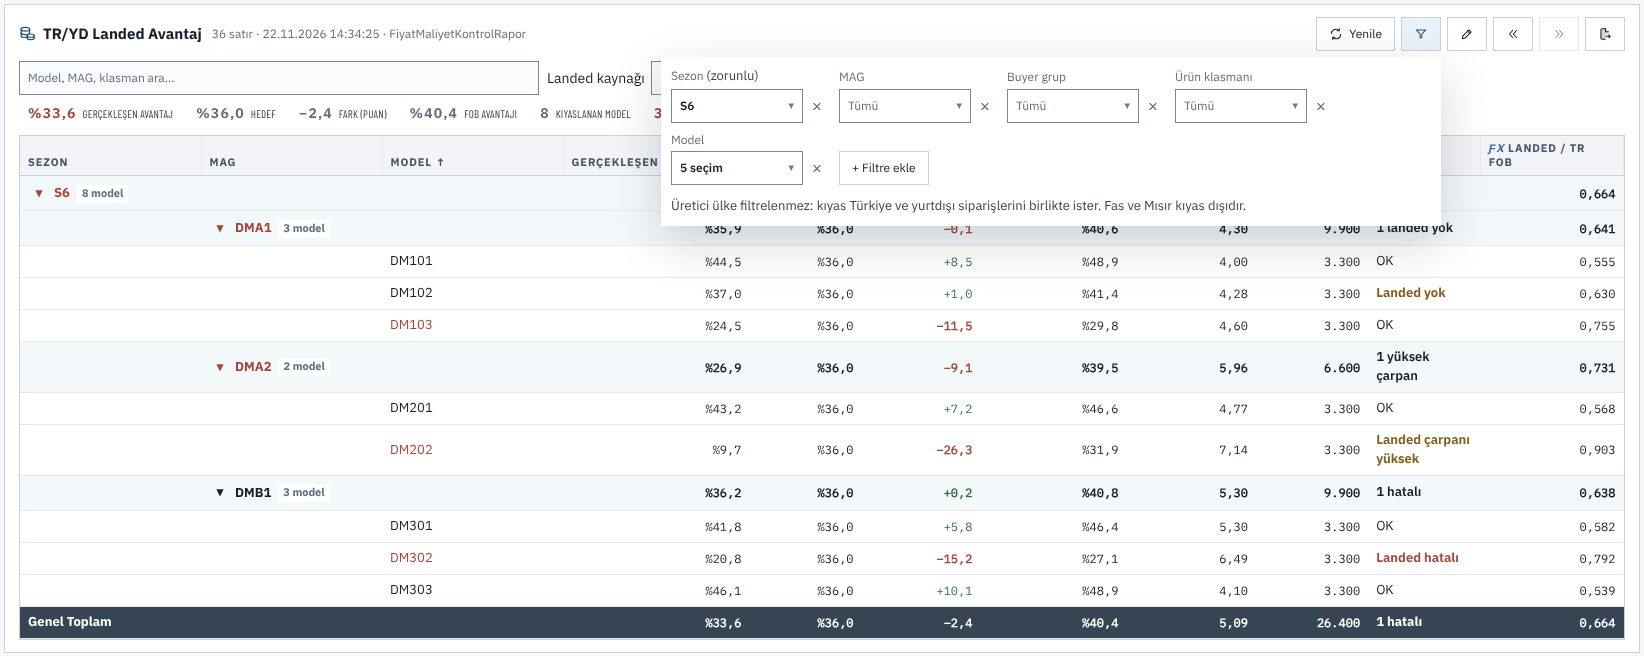
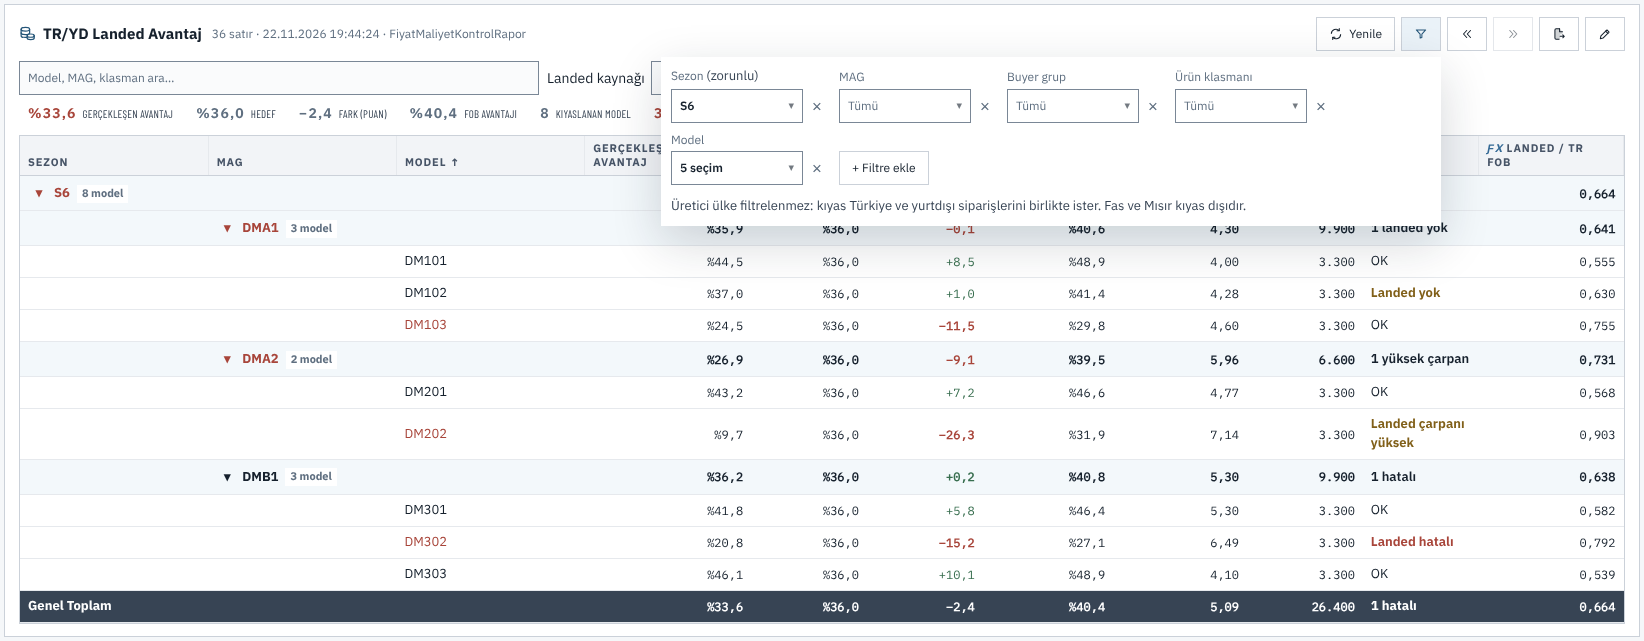
TR/YD: başlık düğmeleri OAB (Küp) ile aynı sırada (#1172)
- Kalem (pivot ayarları) en sona, Excel'in yanına taşındı; kapsayıcı
  oabHeaderActions sınıfını aldı (OAB Küp ile aynı aralık ve gizli grup kuralı).
- Sürüm notu görseli yeni düzenle yeniden çekildi.
- Ekran betiği: Genel Bakış yerleşim yenilemesi kaydırmayı başa aldığı için
  widget kaydırmasız görünsün diye uzun görünüm kullanır (main'de de zaman
  aşımına düşüyordu).

Claude-Session: https://claude.ai/code/session_01HKcjmhXE3GLJzcdJChb8f6

diff --git a/resources/app/public/index.html b/resources/app/public/index.html
@@ -993,13 +993,13 @@
           <p class="cardTitle ovSectionTitle"><svg class="ic" aria-hidden="true"><use href="#i-coins"/></svg><span data-i18n-tr="TR/YD Landed Avantaj" data-i18n-en="TR/YD Landed Advantage">TR/YD Landed Avantaj</span></p>
           <span id="trydAdvantageStateMeta" class="intakeStateMeta"></span>
         </div>
-        <div class="intakeHeaderActions">
+        <div class="oabHeaderActions intakeHeaderActions">
           <button type="button" class="navActionBtn" id="trydAdvantageRefreshBtn" title="FOB sonrası maliyet modelini sorgula" data-i18n-title-tr="FOB sonrası maliyet modelini sorgula" data-i18n-title-en="Query the post-FOB cost model"><svg class="ic"><use href="#i-refresh"/></svg><span data-i18n-tr="Yenile" data-i18n-en="Refresh">Yenile</span></button>
           <button type="button" class="navActionBtn intakeFiltersBtn" id="trydAdvantageFiltersBtn" aria-expanded="false" aria-controls="trydAdvantageFilterPanel" title="TR/YD avantaj filtreleri" aria-label="Filtreler" data-i18n-title-tr="TR/YD avantaj filtreleri" data-i18n-title-en="TR/YD advantage filters" data-i18n-aria-label-tr="Filtreler" data-i18n-aria-label-en="Filters"><svg class="ic" aria-hidden="true"><use href="#i-filter"/></svg></button>
-          <button type="button" class="navActionBtn" id="trydAdvantageFieldsBtn" title="Pivot satır, değer ve filtre alanlarını düzenle" aria-label="Pivot ayarları" data-i18n-title-tr="Pivot satır, değer ve filtre alanlarını düzenle" data-i18n-title-en="Edit pivot rows, values and filters" data-i18n-aria-label-tr="Pivot ayarları" data-i18n-aria-label-en="Pivot settings"><svg class="ic" aria-hidden="true"><use href="#i-pencil"/></svg></button>
           <button type="button" class="navActionBtn oabGroupAction" id="trydAdvantageCollapseAllBtn" hidden title="Tüm grupları daralt" aria-label="Tüm grupları daralt" data-i18n-title-tr="Tüm grupları daralt" data-i18n-title-en="Collapse all groups" data-i18n-aria-label-tr="Tüm grupları daralt" data-i18n-aria-label-en="Collapse all groups"><svg class="ic"><use href="#i-chevrons-left"/></svg></button>
           <button type="button" class="navActionBtn oabGroupAction" id="trydAdvantageExpandAllBtn" hidden title="Tüm grupları genişlet" aria-label="Tüm grupları genişlet" data-i18n-title-tr="Tüm grupları genişlet" data-i18n-title-en="Expand all groups" data-i18n-aria-label-tr="Tüm grupları genişlet" data-i18n-aria-label-en="Expand all groups"><svg class="ic"><use href="#i-chevrons-right"/></svg></button>
           <button type="button" class="navActionBtn" id="trydAdvantageExcelExportBtn" disabled title="Pivotu, kaynak satırları ve özeti Excel’e aktar" aria-label="Excel’e Aktar" data-i18n-title-tr="Pivotu, kaynak satırları ve özeti Excel’e aktar" data-i18n-title-en="Export the pivot, source rows and summary to Excel" data-i18n-aria-label-tr="Excel’e Aktar" data-i18n-aria-label-en="Export Excel"><svg class="ic" aria-hidden="true"><use href="#i-file-export"/></svg></button>
+          <button type="button" class="navActionBtn" id="trydAdvantageFieldsBtn" title="Pivot satır, değer ve filtre alanlarını düzenle" aria-label="Pivot ayarları" data-i18n-title-tr="Pivot satır, değer ve filtre alanlarını düzenle" data-i18n-title-en="Edit pivot rows, values and filters" data-i18n-aria-label-tr="Pivot ayarları" data-i18n-aria-label-en="Pivot settings"><svg class="ic" aria-hidden="true"><use href="#i-pencil"/></svg></button>
         </div>
       </div>
       <div class="postFobToolbar">

diff --git a/resources/app/scripts/tryd-advantage-screenshot.js b/resources/app/scripts/tryd-advantage-screenshot.js
@@ -63,6 +63,8 @@ function demoRows() {
     });
     await page.waitForFunction(() => window.BLOverviewHome && document.getElementById('trydAdvantageSection'), null, { timeout: 60000 });
     await page.evaluate(() => window.BLOverviewHome.goToPage(1));
+    // Genel Bakış yerleşim yenilemesi kaydırmayı başa alabiliyor; widget kaydırmasız görünsün diye uzun görünüm.
+    await page.setViewportSize({ width: 1900, height: 2400 });
     await page.evaluate(() => document.getElementById('trydAdvantageSection').scrollIntoView({ block: 'start' }));
     await page.waitForFunction(() => window.BLTrydAdvantage && window.BLTrydAdvantage.state.started && !document.getElementById('trydAdvantageSection').classList.contains('ovHomeOff'), null, { timeout: 60000 });
     await page.waitForFunction(() => window.BLTrydAdvantage.state.filters.length > 0, null, { timeout: 30000 });
